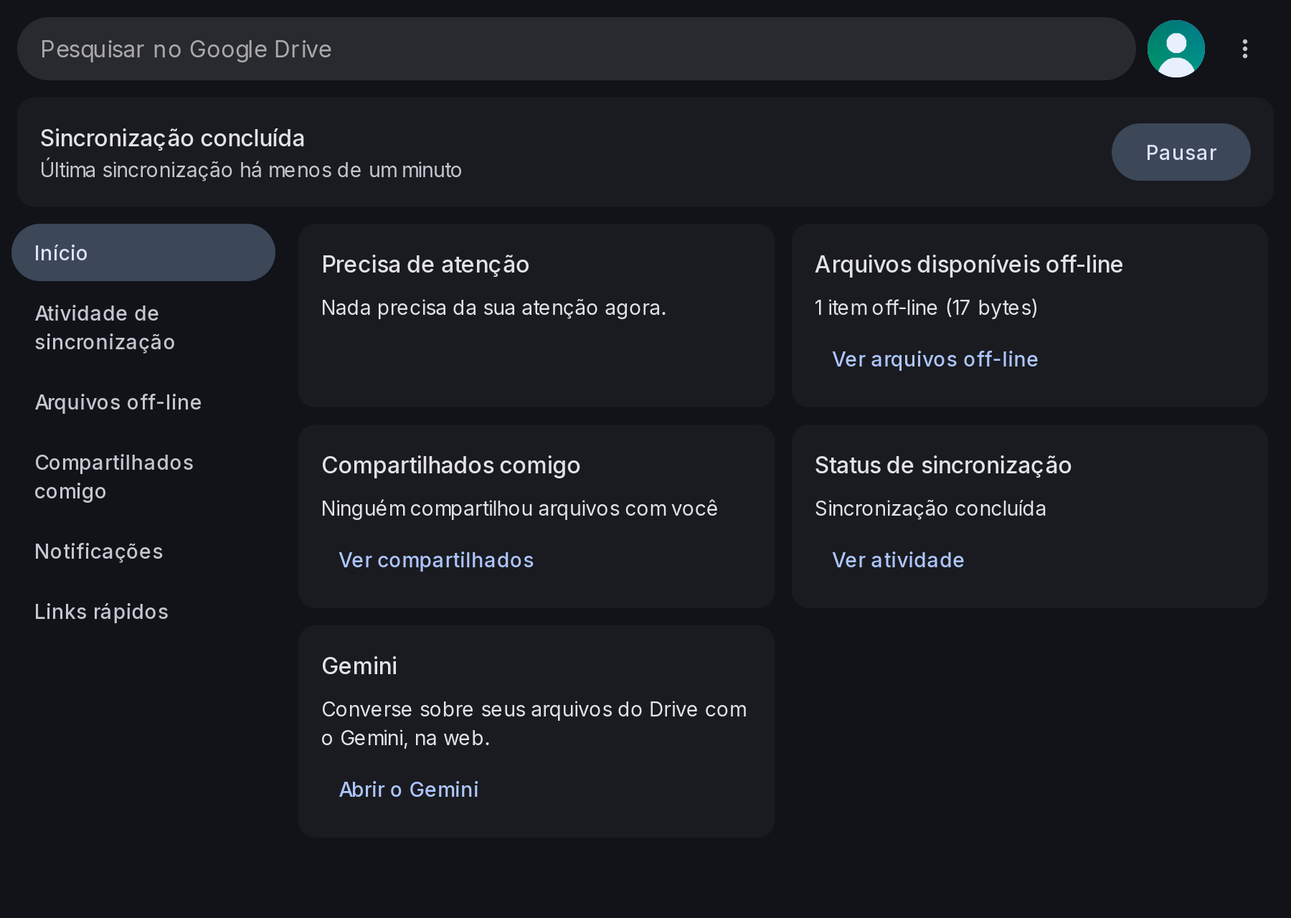
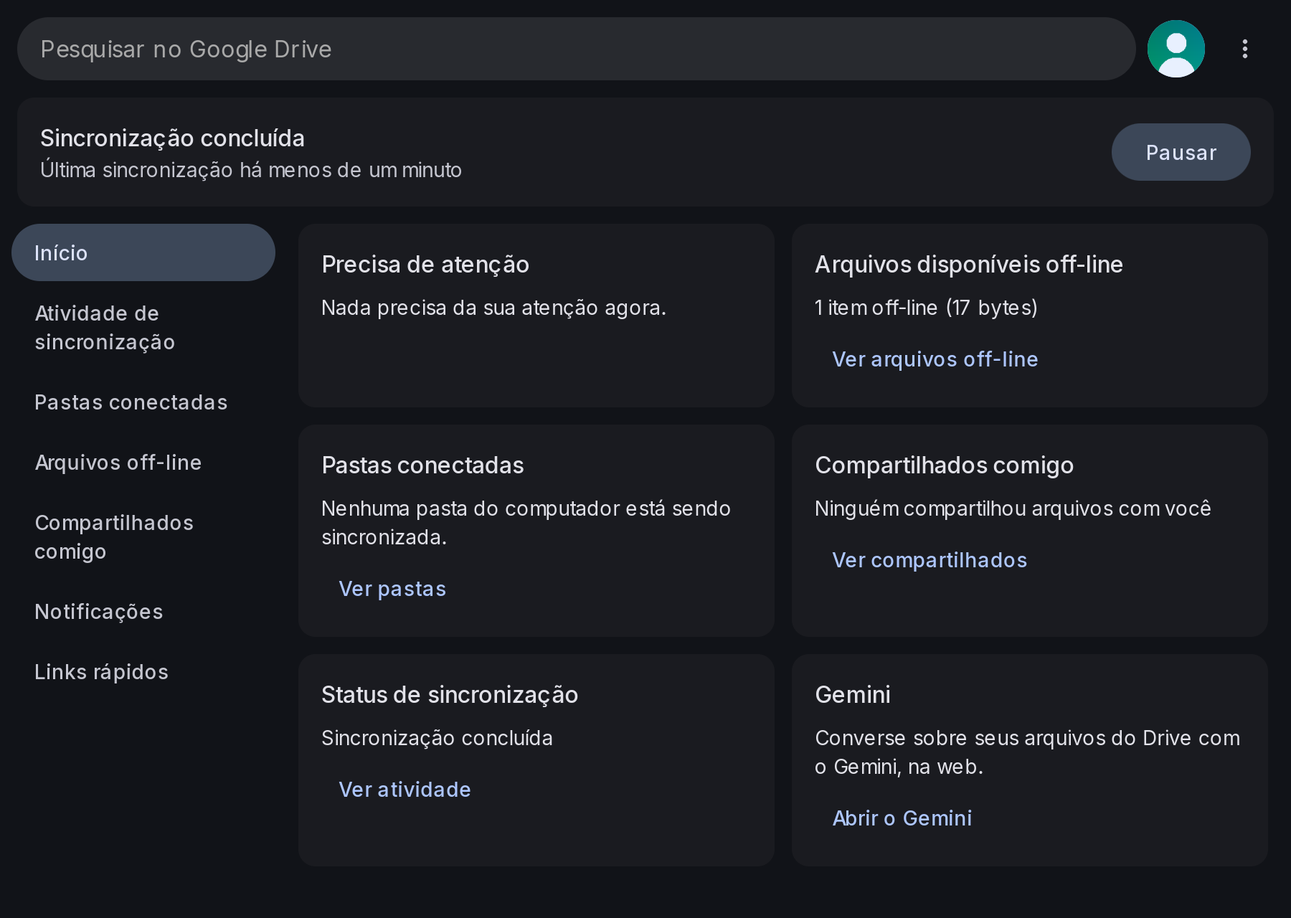
Versão 0.9.0
Espelho do Meu Drive, pastas do computador e backup de pendrives e
cartões de memória. Página do projeto, ajuda, paridade e capturas
atualizadas.

diff --git a/crates/gdl-ui/tests/e2e.rs b/crates/gdl-ui/tests/e2e.rs
@@ -1252,8 +1252,8 @@ async fn screenshots_for_the_readme() {
         ),
         (
             "preferences:computer".to_string(),
-            ".local-folders",
-            "",
+            ".devices",
+            "PENDRIVE",
             "meu-computador",
         ),
     ] {

diff --git a/docs/paridade.md b/docs/paridade.md
@@ -1,16 +1,16 @@
 # Matriz de paridade
 
 Situação de cada item do catálogo da [especificação](superpowers/specs/2026-10-25-gdrive-desktop-linux-design.md)
-(seção 6) no código, conferida na versão 0.8.0 (27/10/2026). A 1.0 sai quando todos os itens estiverem
+(seção 6) no código, conferida na versão 0.9.0 (27/10/2026). A 1.0 sai quando todos os itens estiverem
 **FEITO** ou registrados em "Diferenças conhecidas" no README como risco aceito.
 
 Legenda: **FEITO**, **PARCIAL** (existe, mas incompleto), **FALTA**.
 
 | Seções | FEITO | PARCIAL | FALTA |
 |---|---|---|---|
-| 6.1–6.6 (contas, pasta, cache, sincronização, backup, Drives compartilhados) | 45 | 8 | 18 |
-| 6.7–6.11 (janela principal, bandeja, pesquisa, Preferências, primeiro uso) | 61 | 1 | 17 |
-| 6.12–6.17 (Dolphin, compartilhar e versões, notificações, diagnóstico, políticas, MCP) | 43 | 5 | 27 |
+| 6.1–6.6 (contas, pasta, cache, sincronização, backup, Drives compartilhados) | 60 | 7 | 4 |
+| 6.7–6.11 (janela principal, bandeja, pesquisa, Preferências, primeiro uso) | 67 | 1 | 11 |
+| 6.12–6.17 (Dolphin, compartilhar e versões, notificações, diagnóstico, políticas, MCP) | 48 | 5 | 21 |
 
 Os pacotes `.deb` e `.rpm` exigidos pela 1.0 já saem em cada release (`packaging/nfpm.yaml`,
 `.github/workflows/release.yml`).
@@ -21,12 +21,12 @@ Os pacotes `.deb` e `.rpm` exigidos pela 1.0 já saem em cada release (`packagin
 |---|---|
 | 0.7 | Dolphin completo: ícones de status, submenu completo (abrir no Docs/Planilhas/Apresentações, copiar link dizendo o tipo de acesso), janelas "Compartilhar" e "Gerenciar versões", exclusão do Baloo ✅ |
 | 0.8 | Várias contas (até 4), uma montagem por conta, `DisableAddAccount`; Drives compartilhados na montagem, "Gerenciar drives compartilhados" e criar drive; "Adicionar atalho" no menu, escolhendo o local ✅ |
-| 0.9 | Backup de pastas ("Meu computador"), pastas conectadas e "Computadores", modo Espelho com troca entre modos, dispositivos removíveis e NAS |
+| 0.9 | Backup de pastas ("Meu computador"), pastas conectadas e "Computadores", modo Espelho com troca entre modos, dispositivos removíveis ✅ (NAS fica como diferença) |
 | 0.10 | Diagnóstico, registro detalhado e feedback; notificações restantes e aviso de nova versão; servidor MCP; políticas restantes; ransomware e recuperação do banco |
 | 1.0 | Matriz toda conferida, "Diferenças conhecidas" no README |
 
 
-Legenda: FEITO, PARCIAL, FALTA. Caminhos relativos a `crates/`. Resumo geral: até 4 contas, cada uma com a própria montagem (Meu Drive e Drives compartilhados); ainda sem espelho e sem backup de pastas.
+Legenda: FEITO, PARCIAL, FALTA. Caminhos relativos a `crates/`. Resumo geral: até 4 contas, cada uma com a própria montagem (Meu Drive e Drives compartilhados); modo Stream ou Espelho, pastas do computador em "Computadores" e backup de dispositivos.
 
 ### 6.1 Contas e login
 
@@ -50,12 +50,12 @@ Legenda: FEITO, PARCIAL, FALTA. Caminhos relativos a `crates/`. Resumo geral: at
 |---|---|---|
 | Stream: montagem FUSE por conta | FEITO | `gdl-fs/src/fs.rs`, uma montagem por conta (`engine_at` acha a conta pelo caminho) |
 | Local padrão e `DefaultMountPoint`, aviso/alternativo se ocupado | FEITO | `daemon/mount.rs`, `daemon.rs:834` (`mount-moved`), teste `busy_mount_point_falls_back_to_numbered_folder`. O padrão por e-mail depende de multi-conta |
-| Conteúdo da montagem | PARCIAL | `gdl-fs/src/layout.rs`: Meu Drive, Drives compartilhados, lixeira, Lost and Found, Uploads cancelados, `.shortcut-targets-by-id`. Falta `Computadores` (0.9) |
+| Conteúdo da montagem | FEITO | `gdl-fs/src/layout.rs`: Meu Drive (fora dela no Espelho), Drives compartilhados, Computadores, lixeira, Lost and Found, Uploads cancelados, `.shortcut-targets-by-id` |
 | Nomes pelo idioma / `DisableLocalizedVirtualFolders` | PARCIAL | Nomes via i18n (`Layout::new`); a política está em `config.rs:116` mas não é lida (nunca força inglês) |
 | "Locais" do Dolphin (`ShowMountPointInSidebar`) | FEITO | `gdl-daemon/src/desktop.rs`, `daemon.rs:477` |
-| Modo Espelho (pasta real, inotify + changes.list) | FALTA | Só texto desabilitado em `ui/screens/preferences.js:151` ("Chega numa próxima versão"); sem inotify/watcher |
+| Modo Espelho (pasta real, inotify + changes.list) | FEITO | `gdl-folders` (comparação em três vias, `watch.rs` com inotify e `ItemsChanged`), `daemon/mirror.rs`; documentos Google como ponteiros e atalhos como links |
 | Drives compartilhados sempre em Stream | FEITO | Os drives ficam na montagem (`Node::SharedDrives`); não há modo Espelho para eles |
-| Troca Espelho <-> Stream com salvaguardas | FALTA | Depende do Espelho |
+| Troca Espelho <-> Stream com salvaguardas | FEITO | `MirrorCheck` (tamanho, espaço livre, pendências), `SetStream` recusa com envios pendentes e manda a pasta antiga para a lixeira só se pedido; aba Google Drive |
 | Sem limite de 4 GB | FEITO | Sem limite no FUSE; upload retomável (`uploads.rs`) |
 | Documentos Google como ponteiros, abrir no navegador, copiar cria atalho + aviso | FEITO | `gdl-common/src/gdocs.rs`, `gdl-engine/src/gdocs.rs`, `gdl-cli open-pointer`, `notify-shortcut-*` |
 | Atalhos do Drive como symlinks para `.shortcut-targets-by-id` | FEITO | `fs.rs:224,386` (`FileType::Symlink`, `link_target`) |
@@ -90,7 +90,7 @@ Legenda: FEITO, PARCIAL, FALTA. Caminhos relativos a `crates/`. Resumo geral: at
 | Stream: nuvem no caminho original, edição em Lost and Found, notificação com "Ver arquivos" e "Mover tudo para…" | PARCIAL | `uploads.rs:631`, `notify.rs:92` só oferece "Ver arquivos" (`OPEN_LOST_FOUND`). Falta a ação "Mover tudo para…" |
 | Envio impossível (sem permissão etc.) vai para Lost and Found | FEITO | teste `permission_denied_goes_to_lost_and_found` |
 | Excluído na nuvem com edição pendente: não recria, Lost and Found | FEITO | teste `remote_delete_during_pending_edit_goes_to_lost_and_found_and_is_not_recreated` |
-| Espelho: duas versões lado a lado com sufixo de conflito | FALTA | Não há modo Espelho |
+| Espelho: duas versões lado a lado com sufixo de conflito | FEITO | `gdl-folders/src/decide.rs` (` (conflito AAAA-MM-DD HHhMM)`), teste `both_edited_keeps_both_versions_everywhere` |
 | Recuperar arquivos não sincronizados | FEITO | `uploads.rs:234 recover_on_start`; Lost and Found e pendentes copiáveis no logout `--move` |
 | Recuperação automática após falha do banco local | FALTA | Sem detecção de corrupção/reconstrução a partir da nuvem em `gdl-store`/`engine.rs` |
 | Detecção de ransomware (entropia, pausa, aviso com 3 opções) | FALTA | Nenhuma ocorrência de entropia/ransomware no código |
@@ -102,18 +102,18 @@ Legenda: FEITO, PARCIAL, FALTA. Caminhos relativos a `crates/`. Resumo geral: at
 
 | Item | Situação | Evidência / o que falta |
 |---|---|---|
-| Aba "Meu computador": adicionar pasta | FALTA | `preferences.js:131` só mostra `pref-computer-empty` |
-| Configurador por pasta (conta, destino, tamanho, contagem) | FALTA | Não existe |
-| Parar a sincronização com confirmação | FALTA | Não existe |
-| Mesclar com pasta existente | FALTA | Não existe |
-| Pastas XDG sugeridas | FALTA | Não existe |
-| Pastas conectadas bidirecionais (destino "Computadores") | FALTA | Não há sync de pastas locais nem pasta `Computadores` |
-| Avisos: pasta sumiu/movida/sem permissão | FALTA | Não existe |
-| Proibir aninhar pastas sincronizadas | FALTA | Não existe |
-| Dispositivos removíveis via UDisks2 (notificação, lembrar, ignorados, backup único, "seguro remover") | FALTA | Nenhuma referência a UDisks |
-| `DisableExternalMediaSync` e preferência "perguntar sobre dispositivos" | FALTA | Chave só declarada em `config.rs:115`, sem efeito |
-| Compartilhamentos de rede (NAS), backup a cada 6 h | FALTA | Não existe |
-| `DisableMirroredMyDrive` e `DisableMirroredFolders` | FALTA | Chaves só declaradas em `config.rs:117-118`, sem efeito |
+| Aba "Meu computador": adicionar pasta | FEITO | `ui/screens/preferences.js` `computerTab`, `AddLocalFolder` |
+| Configurador por pasta (conta, destino, tamanho, contagem) | FEITO | `addFolder` + `CheckLocalFolder` (recusas com texto próprio) |
+| Parar a sincronização com confirmação | FEITO | `folder-actions.js` `stopFolder`; os arquivos ficam nos dois lados |
+| Mesclar com pasta existente | FEITO | `AddLocalFolder(merge)` com a pasta de mesmo nome em "Computadores/<este computador>" |
+| Pastas XDG sugeridas | FEITO | Passo de pastas do primeiro uso, com o tamanho de cada uma |
+| Pastas conectadas bidirecionais (destino "Computadores") | FEITO | `daemon/folders.rs`, pastas de apoio achadas por `appProperties`; "Computadores" na montagem |
+| Avisos: pasta sumiu/movida/sem permissão | FEITO | `notify::for_folder` (e exclusão em massa pedindo confirmação), "Escolher novo local" |
+| Proibir aninhar pastas sincronizadas | FEITO | `gdl-folders/src/guard.rs` (`overlap`, recusas `nested`/`contains`) |
+| Dispositivos removíveis via UDisks2 (notificação, lembrar, ignorados, backup único, "seguro remover") | FEITO | `gdl-daemon/src/devices.rs` e `daemon/devices.rs` (`Devices`, `BackupDevice`, `IgnoreDevice`, `ForgetDevice`); "Fazer backup" do aviso abre a aba "Meu computador", onde fica o "lembrar" |
+| `DisableExternalMediaSync` e preferência "perguntar sobre dispositivos" | FEITO | `devices_refused`, `PromptToBackupDevices` na aba "Meu computador" |
+| Compartilhamentos de rede (NAS), backup a cada 6 h | FALTA | Volumes de rede e FUSE são recusados (`guard::network_fs`); registrado em "Diferenças conhecidas" |
+| `DisableMirroredMyDrive` e `DisableMirroredFolders` | FEITO | `mirror_refused`, `folders_refused` (pares guardados não rodam com a política) |
 
 ### 6.6 Drives compartilhados, "Compartilhados comigo" e atalhos
 
@@ -147,11 +147,11 @@ Frontend: `crates/gdl-ui/ui/` (JS puro). Bandeja: `crates/gdl-tray/src/{model,ma
 | Início: cartão Precisa de atenção | FEITO | `home/start.js` `attention` |
 | Início: Arquivos off-line, Compartilhados comigo, Status de sincronização, Gemini | FEITO | `home/start.js` `render` |
 | Início: Drives compartilhados | FALTA | Nenhum cartão nem código de shared drives |
-| Início: Pastas conectadas | FALTA | Sem cartão; a aba "Meu computador" é placeholder |
+| Início: Pastas conectadas | FEITO | Cartão "Pastas conectadas" (`foldersCard`) |
 | Atividade: tabela paginada e ordenável | FEITO | `home/activity.js` (`sortRows`, `paginate`, tamanhos 10/25/50) |
 | Atividade: menu por linha (abrir no gerenciador, abrir na web, copiar link, cancelar upload) | FEITO | `activity.js` `rowMenu` |
 | Atividade: "Compartilhar" (só após upload) | FALTA | `rowMenu` não tem a ação |
-| Visão Pastas conectadas | FALTA | `VIEWS` em `home.js` = start, activity, offline, shared, notifications, links |
+| Visão Pastas conectadas | FEITO | Visão com as linhas de `folderRows` e o mesmo menu das Preferências |
 | Visão Arquivos off-line | FEITO | `home/offline.js` + tela `offline.js` |
 | Visão Compartilhados comigo | FEITO | `home/shared.js` (Adicionar atalho / Abrir na web) |
 | Visão Drives compartilhados | FALTA | Não existe |
@@ -200,9 +200,9 @@ Frontend: `crates/gdl-ui/ui/` (JS puro). Bandeja: `crates/gdl-tray/src/{model,ma
 | Item | Situação | Evidência / o que falta |
 |---|---|---|
 | Duas abas "Meu computador" e "Google Drive" | PARCIAL | `preferences.js` `TABS` tem 3 abas (computer, drive, settings); as avançadas ficam numa aba "Configurações" |
-| Aba "Meu computador" (seção 6.5: pastas do computador) | FALTA | `computerTab` é placeholder ("Chega em breve", botão desabilitado) |
+| Aba "Meu computador" (seção 6.5: pastas do computador) | FEITO | `computerTab`: pastas e dispositivos |
 | Aba Drive: modo Stream | FEITO | `driveTab` |
-| Aba Drive: modo Espelho | FALTA | Radio desabilitado, "em breve" |
+| Aba Drive: modo Espelho | FEITO | `driveTab` `toMirror`/`toStream` (a troca vale ao confirmar o diálogo) |
 | Aba Drive: local da pasta do Meu Drive e abrir pasta | FEITO | `driveTab` (`form.mount`, `api.openMount`); mudar local em `DefaultMountPoint` (`settingsTab`) |
 | Rodapé: Alterações pendentes, Cancelar, Salvar | FEITO | `draw`/`updateFooter`/`save`/`cancel` |
 | Aviso "exige reiniciar" + "Reiniciar agora" | FEITO | `ui.banner`, `api.call('restart')` |
@@ -214,7 +214,7 @@ Frontend: `crates/gdl-ui/ui/` (JS puro). Bandeja: `crates/gdl-tray/src/{model,ma
 | Limites de banda download/upload KB/s | FEITO | `limit('BandwidthRxKBPS'/'BandwidthTxKBPS')` |
 | Atalho da pesquisa | FEITO | `hotkey()` (`SearchHotKey`) |
 | Relatório automático de erros (desligado por padrão) | FEITO | `AutomaticErrorReporting` checkbox |
-| Perguntar sobre backup de dispositivos + lista de ignorados | FALTA | Sem controle na tela |
+| Perguntar sobre backup de dispositivos + lista de ignorados | FEITO | Aba "Meu computador": `PromptToBackupDevices` e a lista com "Ignorar" e "Remover" |
 | Pausar em conexão limitada | FEITO | `PauseSyncingOnMeteredConnection`; `daemon/src/metered.rs` |
 | Tema (sistema ou claro) | FEITO | `theme()` (`UITheme`) |
 | Desconectar a conta | FEITO | `settingsTab` seção `pref-account` |
@@ -230,7 +230,7 @@ Frontend: `crates/gdl-ui/ui/` (JS puro). Bandeja: `crates/gdl-tray/src/{model,ma
 | 2. Aguardando login com "Gerar link" | FEITO | passo `waiting`, botão `onboarding-generate-link` |
 | 3. Apresentação | FEITO | passo `intro` |
 | 4. "Veja seus arquivos no Dolphin" com botão abrir | FEITO | passo `files` (`api.openMount`) |
-| 5. Escolher pastas para sincronizar (sugestões e tamanho) | FALTA | Sem passo; depende do modo Espelho |
+| 5. Escolher pastas para sincronizar (sugestões e tamanho) | FEITO | Passo `folders` do primeiro uso |
 | 6. Resumo | FALTA | Sem passo |
 | 7. Como tornar disponível off-line | FEITO | passo `offline` |
 | Botões Pular, Voltar, Continuar | FEITO | `footer`, `actions` em `onboarding/model.js` |
@@ -253,8 +253,8 @@ Legenda: FEITO / PARCIAL / FALTA. Caminhos relativos à raiz do repositório.
 | Gerenciar versões | FEITO | `Action::Versions` abre a janela `versions:<id>` (só arquivos com versões). |
 | Ver lixeira | FEITO | `Action::Trash` (`menu.rs:51,153`). |
 | Atualizar pasta | FEITO | `Action::Refresh`. |
-| Enviar ou sincronizar esta pasta (fora da montagem) | FALTA | Sem ação; backup/sincronização de pastas é 🔜 no README. |
-| Adicionar ao espelho da conta 1–4 | FALTA | Sem modo espelho nem várias contas. |
+| Enviar ou sincronizar esta pasta (fora da montagem) | FEITO | `Action::SyncFolder` abre o configurador; emblemas nas pastas sincronizadas (`FolderStates`). |
+| Adicionar ao espelho da conta 1–4 | FALTA | Serve ao Espelho de pastas escolhidas, que não existe no Linux; registrado em "Diferenças conhecidas". |
 | Gerenciar / Criar drive compartilhado | FEITO | `menu.rs` `NewSharedDrive`/`ManageSharedDrives` na pasta "Drives compartilhados" |
 | Criar novo documento, planilha, apresentação | FEITO | `Action::NewDocument/NewSpreadsheet/NewPresentation`, `menu.rs:47-49,67-77`. |
 | Perguntar ao Gemini (web) | FALTA | Nenhuma ação no menu (só cartão Gemini na janela principal). |
@@ -281,9 +281,9 @@ Legenda: FEITO / PARCIAL / FALTA. Caminhos relativos à raiz do repositório.
 | Notificações do sistema com ações + lista na janela | FEITO | `gdl-daemon/src/notify.rs` (`Notifier`, `org.freedesktop.Notifications`), D-Bus `Notifications/InvokeNotificationAction` (`dbus.rs:62-74`), tela em `ui/screens/home/notifications.js`. |
 | Erros fatais e de conta | PARCIAL | Existem `Offline`, `UploadFailed`; sem famílias de conta (token expirado, conta bloqueada). |
 | Armazenamento e cota | PARCIAL | `QuotaFull`, `DiskLow` (`notify.rs:108,116`); faltam "quase cheio" da cota e "disco local cheio" separado. |
-| Sincronização e pastas | PARCIAL | `LostAndFound`, `SavedWhilePaused`, `UploadCanceled`, `CopiedAsShortcut`; faltam local mudou, pasta conectada sumiu, itens recuperados, uploads parados há N dias, itens movidos para a lixeira. |
+| Sincronização e pastas | PARCIAL | `LostAndFound`, `SavedWhilePaused`, `UploadCanceled`, `CopiedAsShortcut`, pasta conectada sumiu/movida/sem permissão, exclusão em massa; faltam itens recuperados, uploads parados há N dias, itens movidos para a lixeira. |
 | Permissões e movimentações | FALTA | Nenhum evento (não pode criar/mover/excluir/renomear; avisos de compartilhamento). |
-| Dispositivos (backup?, seguro remover, backup concluído/erro) | FALTA | Sem backup de dispositivos. |
+| Dispositivos (backup?, seguro remover, backup concluído/erro) | FEITO | `notify::device_ask`/`device_done` (um aviso por dispositivo). |
 | "Nova versão do app" (releases do GitHub) | FALTA | Nenhuma consulta às releases no código. |
 | "Não mostrar de novo" + tela Preferências de notificação | FEITO | `dbus.rs:78-88`, `ui/screens/notification-settings.js`. |
 
@@ -313,10 +313,10 @@ Legenda: FEITO / PARCIAL / FALTA. Caminhos relativos à raiz do repositório.
 | DefaultMountPoint | FEITO | `daemon.rs:1032-1035`, `mount.rs`. |
 | DefaultWebBrowser | FEITO | `gdl-common/src/browser.rs`, `config.rs:204`. |
 | DisableAddAccount | FEITO | `begin_login` e `can_add_account` |
-| DisableExternalMediaSync | FALTA | Sem consumidor. |
+| DisableExternalMediaSync | FEITO | `daemon/devices.rs` (`devices_refused`). |
 | DisableLocalizedVirtualFolders | FALTA | Sem consumidor. |
-| DisableMirroredMyDrive | FALTA | Sem consumidor (sem espelho). |
-| DisableMirroredFolders | FALTA | Sem consumidor. |
+| DisableMirroredMyDrive | FEITO | `daemon/mirror.rs` (`mirror_refused`). |
+| DisableMirroredFolders | FEITO | `daemon/folders.rs` (`folders_refused`). |
 | DisableOnboardingDialog | FEITO | `gdl-tray/src/main.rs:148`. |
 | MinFreeDiskSpaceKBytes | FEITO | `engine.rs:169`. |
 | OpenOfficeFilesInDocs | FEITO | Esconde os itens "Abrir no Docs/Planilhas/Apresentações" do menu quando desligada. |
@@ -330,7 +330,7 @@ Legenda: FEITO / PARCIAL / FALTA. Caminhos relativos à raiz do repositório.
 | AutomaticErrorReporting | PARCIAL | Chave e caixa na UI, sem funcionalidade de relatório (ver 6.15). |
 | UITheme | FEITO | `ui/app.js`, `ui/screens/preferences.js`. |
 | ShowMountPointInSidebar | FEITO | `daemon.rs:477-483`, `desktop.rs`. |
-| PromptToBackupDevices | FALTA | Sem consumidor (sem backup de dispositivos). |
+| PromptToBackupDevices | FEITO | `daemon/devices.rs` (`devices_found`). |
 
 ### 6.17 Servidor MCP
 

diff --git a/README.md b/README.md
@@ -35,18 +35,18 @@ Este projeto quer preencher essa lacuna com um app **nativo de Linux**, feito do
 
 | Área | Situação |
 |---|---|
-| **Pasta do Drive** | ✅ Todo o Meu Drive em `~/Google Drive/Meu Drive` e os Drives compartilhados em `~/Google Drive/Drives compartilhados`; os arquivos ficam na nuvem e são baixados só quando você abre (e só os trechos lidos). |
+| **Pasta do Drive** | ✅ Todo o Meu Drive em `~/Google Drive/Meu Drive` e os Drives compartilhados em `~/Google Drive/Drives compartilhados`; os arquivos ficam na nuvem e são baixados só quando você abre (e só os trechos lidos). No modo Espelho, o Meu Drive fica inteiro numa pasta do computador. |
 | **Off-line** | ✅ "Disponível off-line" em arquivos e pastas; as alterações feitas sem internet sobem quando a conexão volta. |
 | **Sincronização** | ✅ Envio e recebimento automáticos, fila que sobrevive a reinícios, conflitos guardados no Lost and Found, lixeira, limites de banda e pausa. |
 | **Documentos Google** | ✅ Docs, Planilhas e Apresentações aparecem na pasta e abrem no navegador com duplo clique. |
 | **Bandeja e janela** | ✅ Ícone na bandeja, janela principal, atividade com progresso, pesquisa rápida, erros, arquivos off-line, preferências, notificações e menu da conta com foto e uso do espaço. |
 | **Primeiro uso** | ✅ Guia do Client ID dentro do app, com botões que abrem cada página do Google Cloud. |
 | **Miniaturas** | ✅ As imagens aparecem com miniatura no Dolphin e em outros gerenciadores, usando as miniaturas do próprio Google, sem baixar os arquivos. |
-| **Menu do botão direito** | ✅ Abrir no navegador, copiar link (com o aviso de quem pode abrir), adicionar atalho ao Drive, off-line / só on-line, novo Documento, Planilha ou Apresentação, atualizar e lixeira, no Dolphin, Nautilus, Nemo, Caja, Thunar e COSMIC Files. |
+| **Menu do botão direito** | ✅ Abrir no navegador, copiar link (com o aviso de quem pode abrir), adicionar atalho ao Drive, sincronizar uma pasta do computador, off-line / só on-line, novo Documento, Planilha ou Apresentação, atualizar e lixeira, no Dolphin, Nautilus, Nemo, Caja, Thunar e COSMIC Files. |
 | **Compartilhar e versões** | ✅ Pelo menu do botão direito: janela Compartilhar (pessoas, papéis, acesso geral e link), Gerenciar versões (baixar, restaurar, manter para sempre) e arquivos do Office abertos no Docs, Planilhas ou Apresentações. |
 | **Instalação e remoção** | ✅ Pacotes `.deb`, `.rpm`, Arch e `.tar.gz`, e um desinstalador com a opção de apagar também os dados do computador. |
-| **Ícones de status** | ✅ Na nuvem, off-line, sincronizando e em conflito, no Dolphin. A pasta do Drive fica fora do indexador do KDE (Baloo), que baixaria tudo para ler. |
-| **Backup e espelho** | 🔜 Backup de pastas do computador para o Drive e o modo espelho (cópia completa no computador). |
+| **Ícones de status** | ✅ Na nuvem, off-line, sincronizando e em conflito, no Dolphin, também nas pastas do computador sincronizadas. A pasta do Drive fica fora do indexador do KDE (Baloo), que baixaria tudo para ler. |
+| **Backup e espelho** | ✅ Pastas do computador sincronizadas com "Computadores" no Drive, o Meu Drive em modo Espelho (cópia completa numa pasta comum, com a troca de volta para o Stream) e backup de pendrives e cartões de memória quando são conectados. |
 | **Contas** | ✅ Até 4 contas Google ao mesmo tempo, cada uma com a própria pasta, trocadas pelo menu da conta. |
 | **Drives compartilhados** | ✅ Na pasta de cada conta, com a janela "Gerenciar drives compartilhados" para escolher quais aparecem e criar um novo. |
 
@@ -67,6 +67,8 @@ A lista completa e detalhada fica na especificação em [`docs/`](docs/).
 | ![Janela Compartilhar com as pessoas, os papéis e o acesso geral](docs/imagens/compartilhar.png) | ![Versões guardadas de um arquivo, da atual para a mais antiga](docs/imagens/versoes.png) |
 | **Gerenciar drives compartilhados** | **Adicionar atalho ao Drive** |
 | ![Lista de Drives compartilhados com uma chave para cada um](docs/imagens/drives-compartilhados.png) | ![Escolha da pasta do atalho: o Meu Drive e os Drives compartilhados](docs/imagens/adicionar-atalho.png) |
+| **Meu computador** | **Espelhar o Meu Drive** |
+| ![Pastas do computador e dispositivos USB nas preferências](docs/imagens/meu-computador.png) | ![Escolha da pasta do Espelho, com o tamanho a baixar e o espaço livre](docs/imagens/espelhar.png) |
 
 ## Como funciona
 
@@ -98,6 +100,11 @@ A lista completa e detalhada fica na especificação em [`docs/`](docs/).
 - **Backups de pastas:** a API pública não cria a seção "Computadores" do Drive. Os backups ficam em
   `Meu Drive/Computadores/<nome-do-computador>/`, e a pasta do app mostra "Computadores" como no
   original.
+- **Pastas de rede (NAS):** não podem ser sincronizadas; o app recusa volumes de rede e FUSE.
+- **"Adicionar ao espelho" no menu do Dolphin:** não existe, porque no Linux o Espelho é sempre do
+  Meu Drive inteiro (não de pastas escolhidas).
+- **Dispositivos:** o aviso de um pendrive novo abre as preferências, onde fica a opção de fazer
+  backup sempre; os avisos do sistema não têm caixa de seleção.
 - **Sem o limite de 4 GB por arquivo** da unidade virtual do Windows: aqui o limite é o da nuvem.
 - **Ficam fora:** presença em tempo real do Office, plugins do Outlook/Meet e backup para o Google
   Fotos (descontinuado pelo próprio Google).
@@ -206,7 +213,8 @@ Limitações conhecidas:
 - Uma pasta criada aqui que ainda não subiu, mandada para a lixeira, some só deste computador.
 - Uma conta que ainda não terminou a primeira leitura do Drive e não consegue subir na partida
   (sem internet ou com o login expirado) fica fora da lista até a próxima partida.
-- Ainda sem backup de pastas e modo espelho (veja o roteiro abaixo).
+- No modo Espelho, os Drives compartilhados continuam na pasta do Google Drive (em Stream), como
+  no original.
 
 Roteiro de teste manual (e o que já foi conferido): [docs/testes](docs/testes/README.md).
 
@@ -224,8 +232,8 @@ Cada etapa sai funcionando antes da próxima.
 | 0.5 | Menu do botão direito em todos os gerenciadores |
 | 0.6 | Desempenho: CPU parada, pastas grandes, download e envios em paralelo |
 | 0.7 | Dolphin completo: ícones de status, janelas de compartilhar e de versões |
-| 0.8 | Várias contas e Drives compartilhados ← **estamos aqui** |
-| 0.9 | Backup de pastas, pastas conectadas e modo espelho |
+| 0.8 | Várias contas e Drives compartilhados |
+| 0.9 | Backup de pastas, pastas conectadas, modo espelho e dispositivos ← **estamos aqui** |
 | 0.10 | Diagnóstico e feedback, notificações restantes, servidor MCP, políticas restantes |
 | 1.0 | Paridade com a versão Windows, item a item na [matriz de paridade](docs/paridade.md) |
 

diff --git a/CHANGELOG.md b/CHANGELOG.md
@@ -7,6 +7,42 @@ O formato segue o [Keep a Changelog](https://keepachangelog.com/pt-BR/1.1.0/), e
 
 ## [Não lançado]
 
+## [0.9.0] - 2026-10-27
+
+### Adicionado
+- Modo Espelho: em Preferências › Google Drive, o Meu Drive inteiro vai para uma pasta comum do
+  computador (sugerida ao lado da pasta do Google Drive, ou escolhida), com o tamanho a baixar e o
+  espaço livre antes de confirmar. Documentos Google viram arquivos que abrem no navegador, e
+  atalhos viram links. Voltar ao Stream espera os envios pendentes e pode mandar a pasta antiga
+  para a lixeira. Os Drives compartilhados continuam na pasta do Google Drive.
+- Pastas do computador: na aba "Meu computador", adicionar uma pasta a sincroniza nos dois
+  sentidos com "Computadores/<este computador>" no Drive (configurador com conta, tamanho,
+  contagem e opção de juntar com a pasta que já esteja lá). A pasta "Computadores" aparece na
+  pasta do Google Drive, inclusive com os backups de outros computadores.
+- Visão e cartão "Pastas conectadas" na janela principal, passo de escolha de pastas (com as
+  pastas do usuário sugeridas) no primeiro uso e avisos de pasta que sumiu, foi movida, perdeu a
+  permissão ou teria muitos itens excluídos de uma vez (a pasta para e pergunta).
+- Nada se apaga de vez: excluir no computador manda para a lixeira do Drive, e o que sai do Drive
+  vai para a lixeira do sistema. Edições nos dois lados ficam nas duas versões, com
+  " (conflito <data>)" no nome.
+- Dolphin: "Sincronizar esta pasta com o Google Drive" no botão direito de pastas fora do Drive e
+  emblemas de estado nas pastas sincronizadas.
+- Pendrives, cartões e câmeras: ao conectar, o app pergunta se faz backup (só envio, para
+  "Computadores/<este computador>/<nome>") e avisa quando dá para remover com segurança. Na aba
+  "Meu computador": fazer backup sempre, ignorar o dispositivo e desligar a pergunta.
+- Políticas `DisableMirroredMyDrive`, `DisableMirroredFolders`, `DisableExternalMediaSync` e
+  `PromptToBackupDevices`.
+
+### Mudado
+- D-Bus: `LocalFolders`, `CheckLocalFolder`, `AddLocalFolder`, `RemoveLocalFolder`,
+  `RelocateLocalFolder`, `ConfirmFolderDeletes`, `Mirror`, `MirrorCheck`, `SetMirror`,
+  `SetStream`, `Devices`, `BackupDevice`, `IgnoreDevice`, `ForgetDevice`, `FolderStates`,
+  `FolderRoots` e o sinal `LocalFoldersChanged`.
+
+### Segurança
+- O corpo dos avisos vai escapado quando o servidor de notificações interpreta marcação: o nome de
+  um arquivo ou o rótulo de um pendrive não viram link nem formatação.
+
 ### Corrigido
 - Sair pela bandeja e abrir o app de novo pelo menu não leva mais à tela de primeiro uso quando
   há conta conectada: enquanto o serviço reconecta as contas, a bandeja e a janela mostram
@@ -394,7 +430,9 @@ O formato segue o [Keep a Changelog](https://keepachangelog.com/pt-BR/1.1.0/), e
 - `.gitignore` que impede a entrada de binários de terceiros e de material de engenharia reversa.
 - Este CHANGELOG e a política de versionamento.
 
-[Não lançado]: https://github.com/junior9283/gdrive-desktop-linux/compare/v0.7.0...HEAD
+[Não lançado]: https://github.com/junior9283/gdrive-desktop-linux/compare/v0.9.0...HEAD
+[0.9.0]: https://github.com/junior9283/gdrive-desktop-linux/compare/v0.8.0...v0.9.0
+[0.8.0]: https://github.com/junior9283/gdrive-desktop-linux/compare/v0.7.0...v0.8.0
 [0.7.0]: https://github.com/junior9283/gdrive-desktop-linux/compare/v0.6.0...v0.7.0
 [0.6.0]: https://github.com/junior9283/gdrive-desktop-linux/compare/v0.5.0...v0.6.0
 [0.5.0]: https://github.com/junior9283/gdrive-desktop-linux/compare/v0.4.0...v0.5.0

diff --git a/docs/ajuda.md b/docs/ajuda.md
@@ -22,6 +22,32 @@ pasta "Drives compartilhados"), escolha quais drives aparecem na pasta e crie um
 arquivo para um Drive compartilhado muda quem pode vê-lo; mover uma pasta do Meu Drive para um
 drive não é possível pelo app e precisa ser feito no Drive pela web.
 
+## Espelho do Meu Drive
+
+Em **Preferências › Google Drive**, **Espelhar arquivos** leva o Meu Drive inteiro para uma pasta
+comum do computador (sugerida ao lado da pasta do Google Drive; dá para escolher outra), disponível
+mesmo sem internet. Antes de confirmar, a janela mostra quanto será baixado e o espaço livre. Os
+Drives compartilhados continuam na pasta do Google Drive. **Fazer streaming dos arquivos** volta ao
+modo anterior depois que tudo o que foi alterado subir, e pode mandar a pasta do Espelho para a
+lixeira do sistema.
+
+## Pastas do computador
+
+Em **Preferências › Meu computador**, **Adicionar pasta** sincroniza uma pasta do computador com
+"Computadores/<este computador>" no Drive, nos dois sentidos. No Dolphin, o botão direito numa pasta
+fora do Drive oferece **Sincronizar esta pasta com o Google Drive**. Nada é apagado de vez: o que
+você exclui no computador vai para a lixeira do Drive, e o que sai do Drive vai para a lixeira do
+sistema. Se muitos arquivos somem de uma vez, a pasta para e pergunta antes. Pastas de rede não
+podem ser sincronizadas.
+
+## Pendrives e cartões de memória
+
+Quando um pendrive, cartão ou câmera é conectado, o app pergunta se quer fazer backup. O backup só
+envia (nada é apagado do dispositivo nem do Drive) e vai para "Computadores/<este computador>/<nome
+do dispositivo>"; no fim, o aviso diz que dá para remover o dispositivo com segurança. Em
+**Preferências › Meu computador** dá para fazer backup sempre que o dispositivo for conectado,
+ignorá-lo ou desligar a pergunta.
+
 ## A janela principal
 
 - **Cabeçalho:** o estado da sincronização, a última sincronização e o botão Pausar/Retomar.

diff --git a/docs/index.md b/docs/index.md
@@ -11,8 +11,9 @@ title: gdrive-desktop-linux
 Cliente **não oficial** do Google Drive para Linux, de código aberto (GPL-3.0), escrito em Rust.
 Ele mostra o seu Drive como uma pasta no computador, em que os arquivos ficam na nuvem até você
 abrir, com ícone na bandeja, pesquisa, arquivos disponíveis off-line, sincronização automática,
-até 4 contas ao mesmo tempo, Drives compartilhados e, no gerenciador de arquivos, emblemas de
-estado, compartilhamento, versões e atalhos pelo botão direito.
+até 4 contas ao mesmo tempo, Drives compartilhados, o modo Espelho (o Meu Drive inteiro numa pasta
+do computador), pastas do computador sincronizadas, backup de pendrives e, no gerenciador de
+arquivos, emblemas de estado, compartilhamento, versões e atalhos pelo botão direito.
 
 O app roda inteiro no seu computador e conversa só com as APIs do Google, usando um Client ID que
 você mesmo cria no seu projeto do Google Cloud. O projeto não tem servidores e não recebe nenhum
